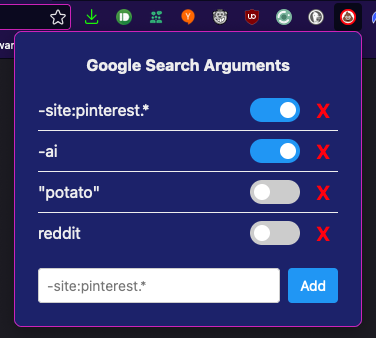
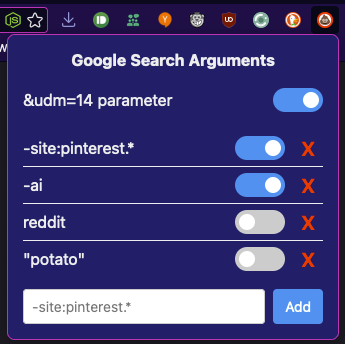
Now I'm concentrating on a specific tank battle toward the end of World War II!

diff --git a/README.md b/README.md
@@ -6,10 +6,12 @@ A Firefox addon which allows you to append arbitrary arguments/text to your quer
 You can heavily customize the results of a Google search by appending certain text to your query. This add-on allows you to add any such text/arguments automatically, and also to toggle these arguments on and off as you require.
 
 For example, you could add:
-1. __```-ai```__ to remove all the Google AI suggestion nonsense
+1. __```-ai```__ to remove all the Google AI suggestion nonsense (but leave knowledge boxes and highlights extracted from results)
 2. __```-site:pinterest.*```__ to remove all pinterest results
 3. __```reddit```__ to automatically favor Reddit hits
 4. __```"potato"```__ to only accept results which mention the humble potato
+
+v1.2 adds the ability to toggle adding the `&udm=14` parameter to the search URL arguments in order to further nerf the creeping AI. (Thanks to the person on Mastodon who made me aware of this, who I will happily credit if they wish!) [Read more about udm=14 here.](https://tedium.co/2024/05/17/google-web-search-make-default/)
 
 This add-on does not know who you are, does not care who you are, and does not collect any of your data.
 
